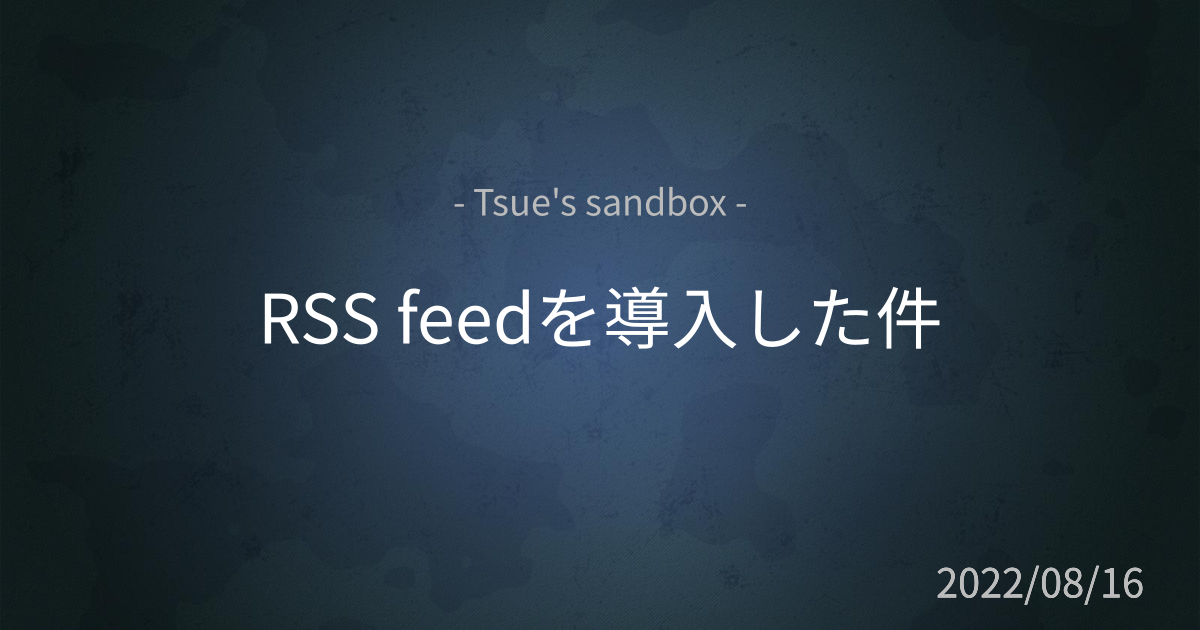
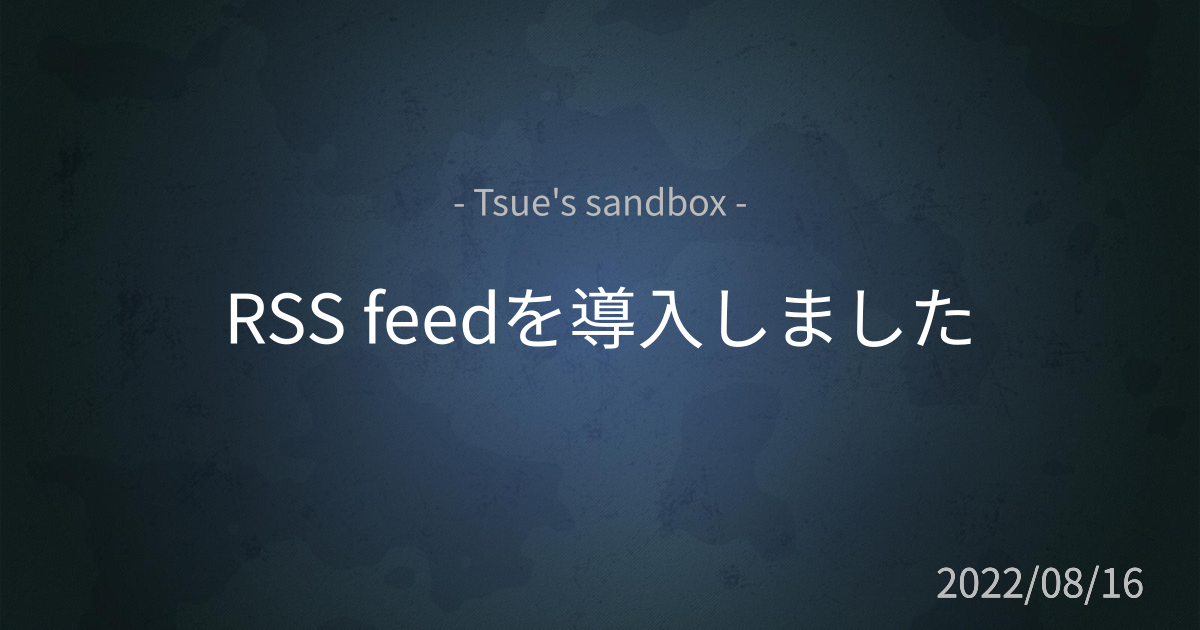
update

Changed region(s): [[0.185, 0.4524, 0.8017, 0.573]]

diff --git a/src/posts/rss-feed.md b/src/posts/rss-feed.md
@@ -1,5 +1,5 @@
 ---
-title: 'RSS feedを導入した件'
+title: 'RSS feedを導入しました'
 date: '2022-08-16'
 description: 'Next.jsで簡単RSS導入'
 image: images/articles/rss_feed.webp
@@ -139,6 +139,14 @@ export const getStaticProps = () => {
 - [/rss/atom.xml](https://tsue-sandbox.vercel.app/rss/atom.xml)
 - [/rss/feed.json](https://tsue-sandbox.vercel.app/rss/feed.json)
 
+
+コンフリクトするのでgitignoreを忘れずに。
+```json:.gitignore
+# rss feed
+/public/rss/atom.xml
+/public/rss/feed.json
+/public/rss/feed.xml
+```
 
 
 ---
